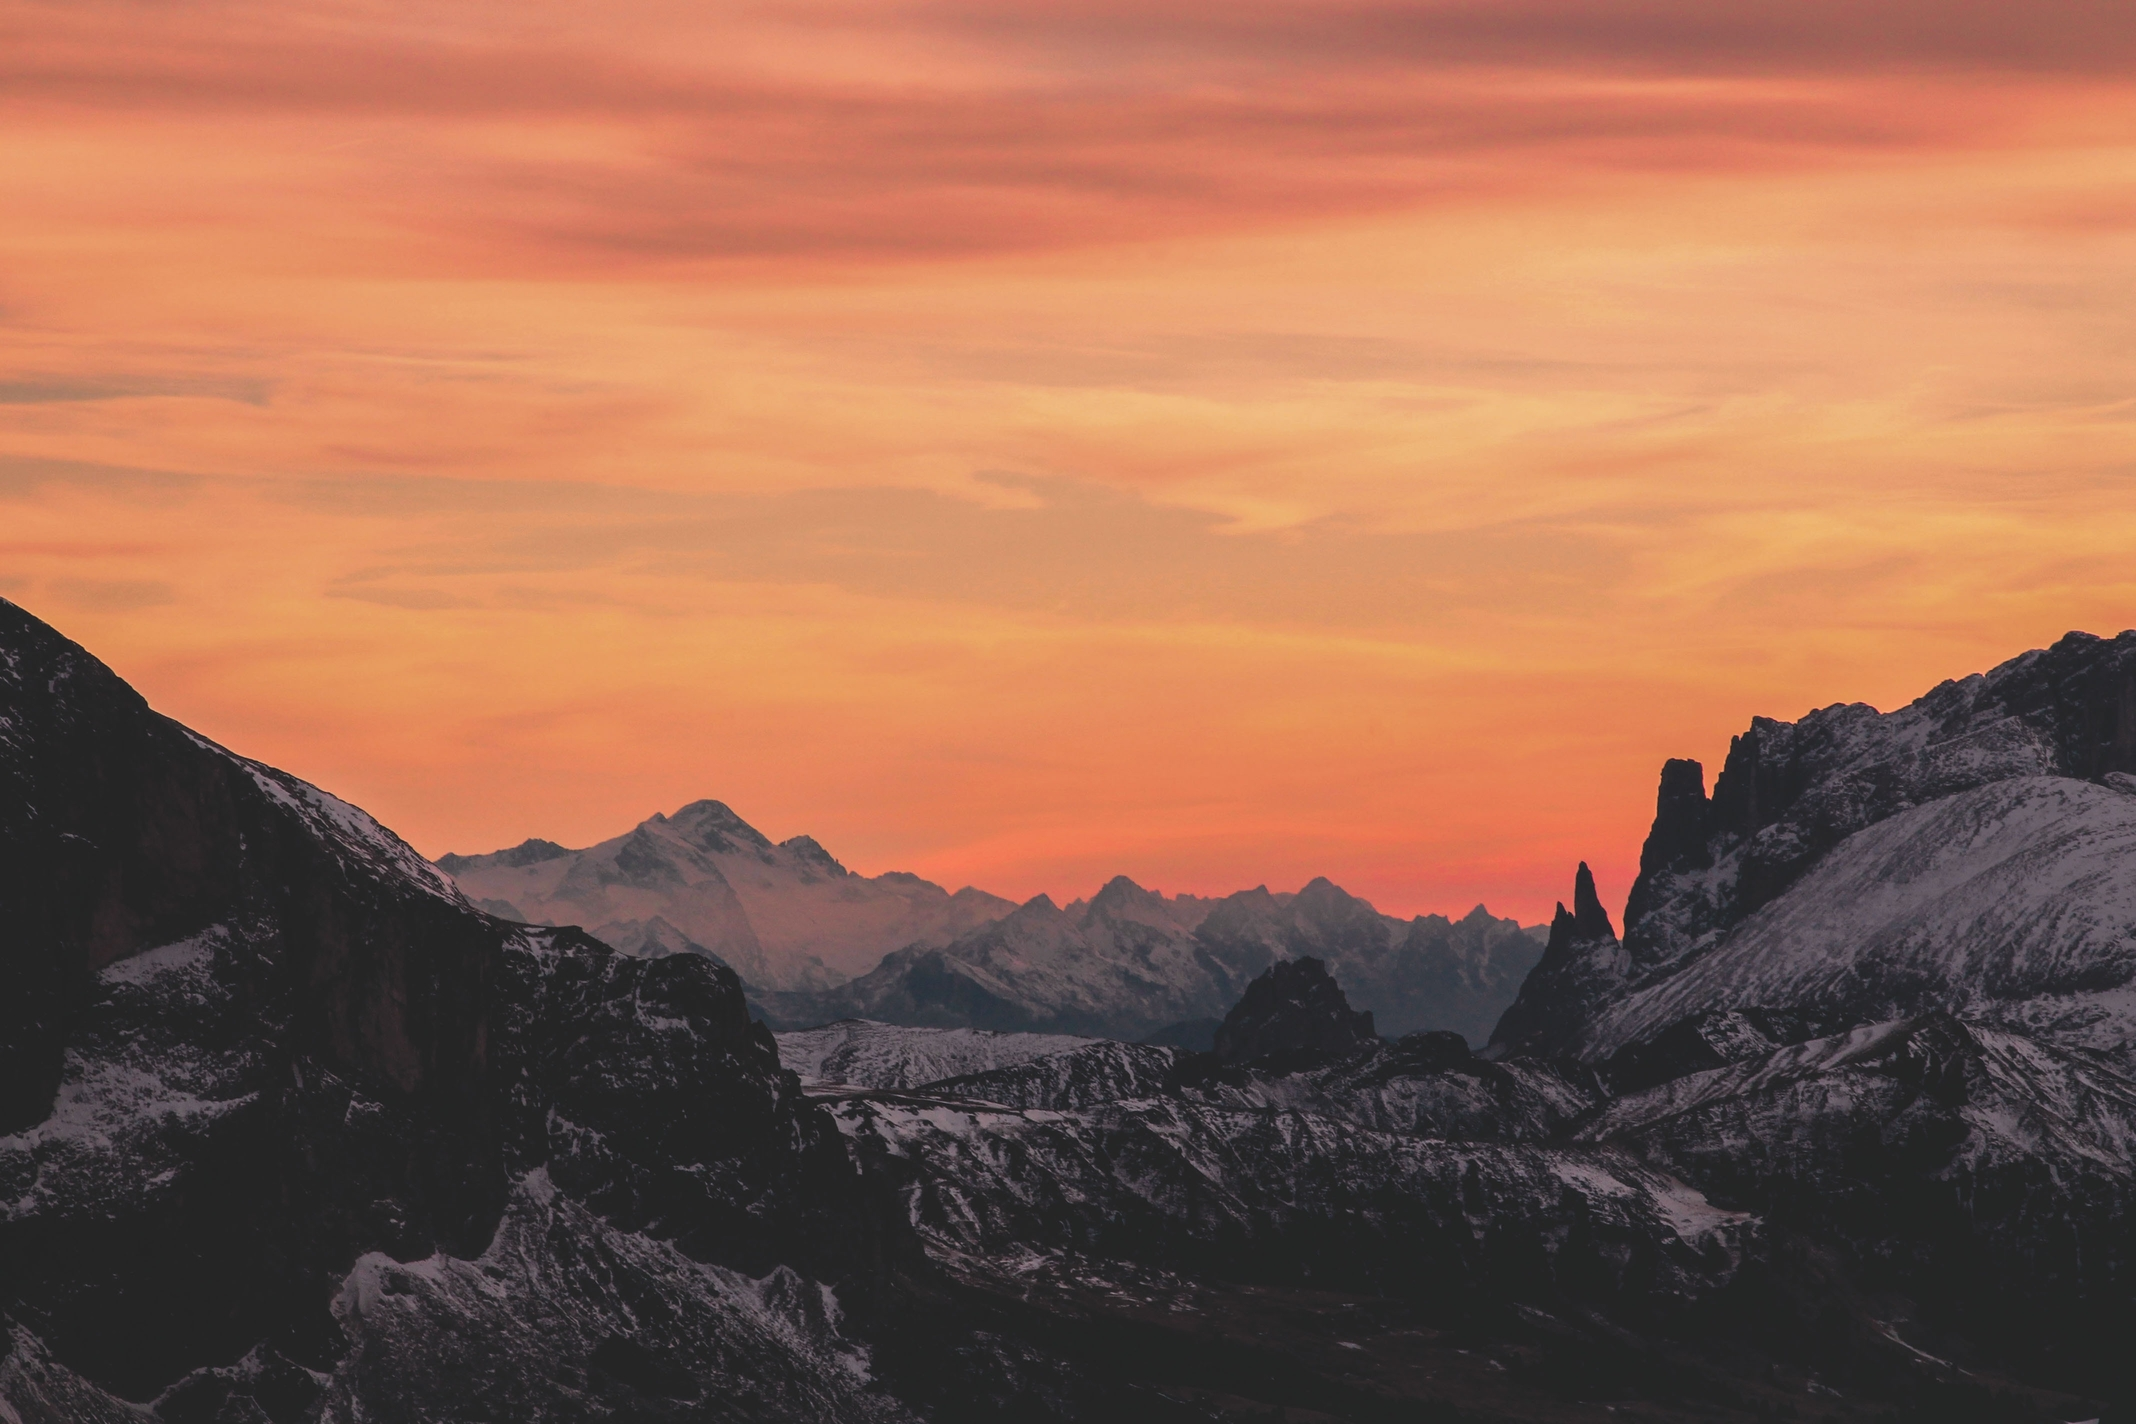
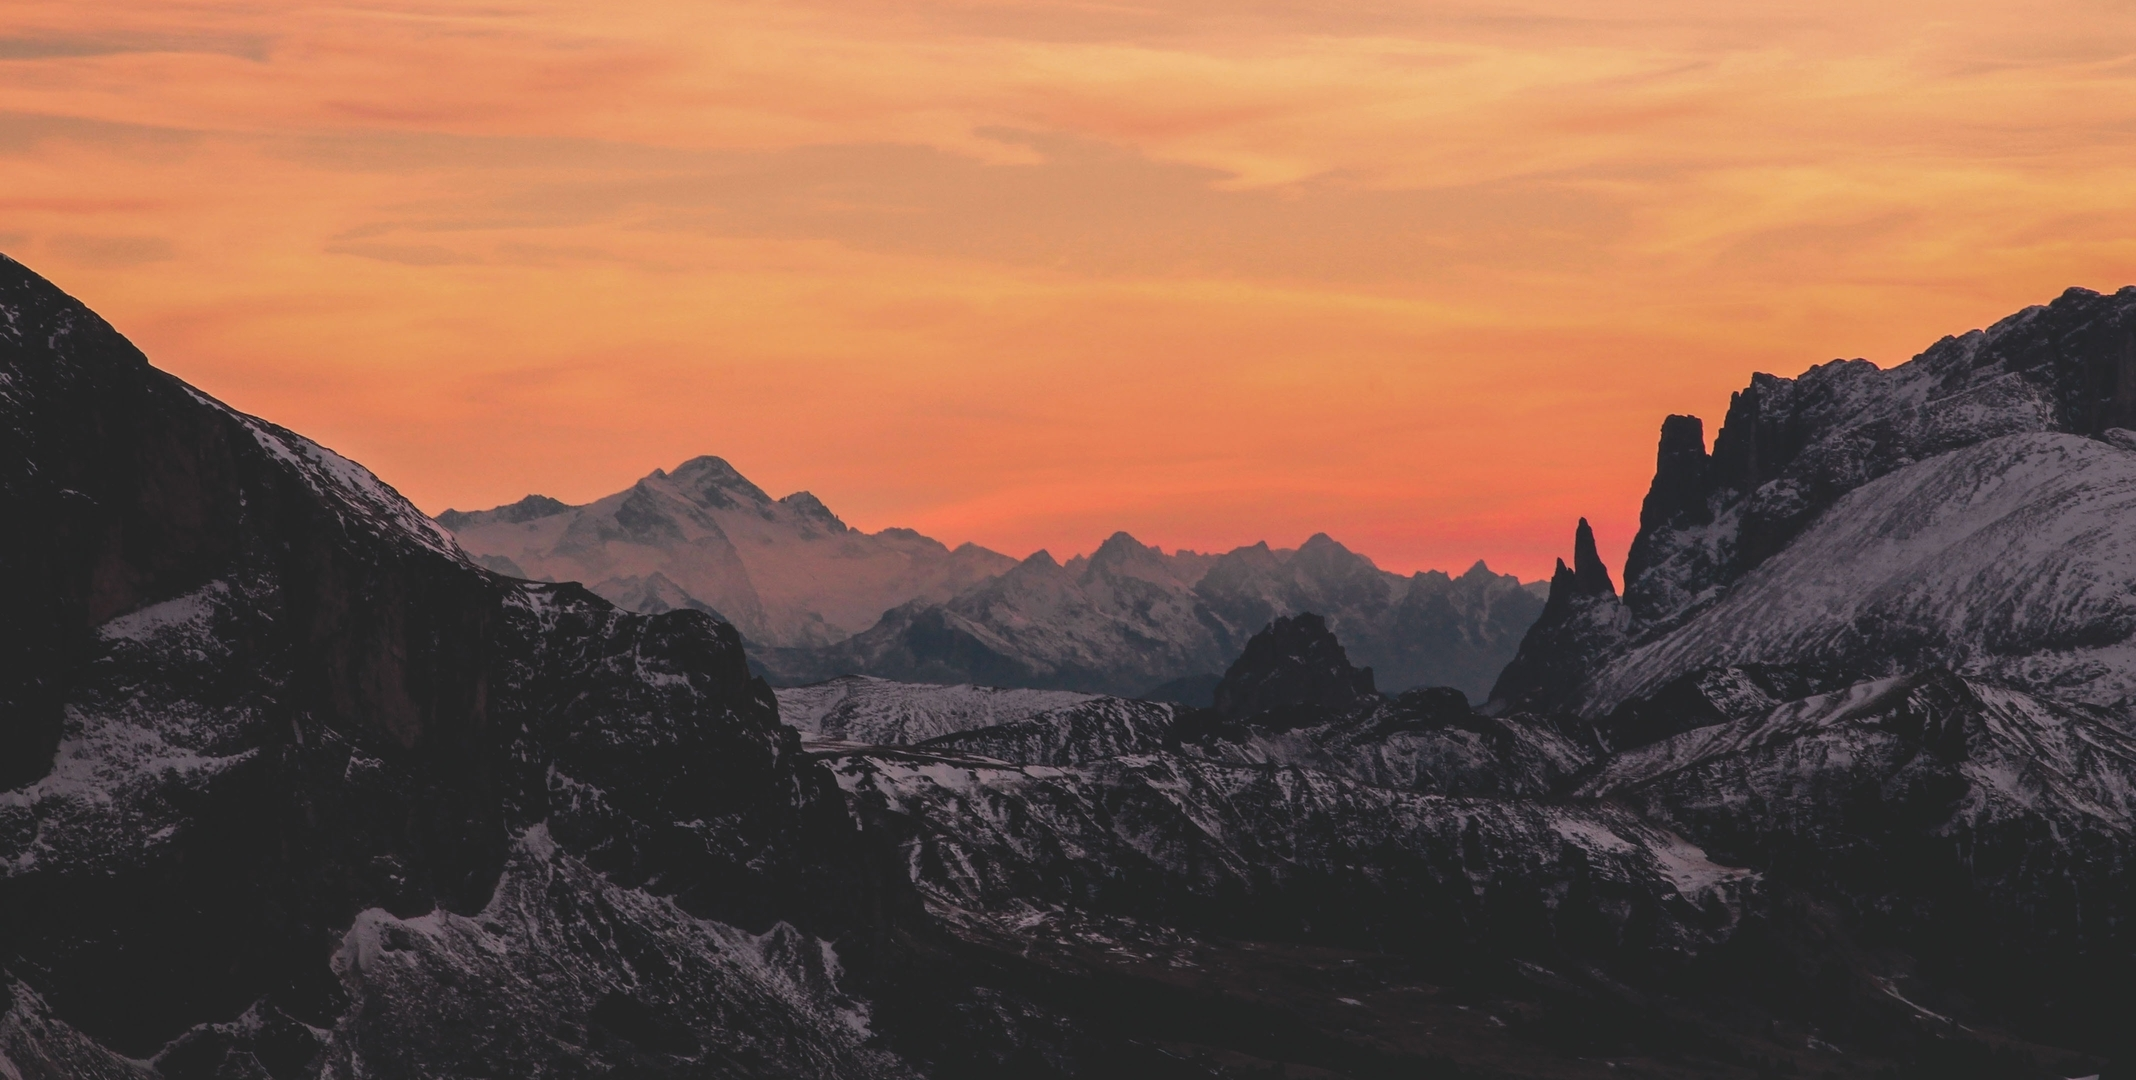
responsive design and skills tab

diff --git a/css/style.css b/css/style.css
@@ -2,9 +2,6 @@ body {
     margin: 0;
     background: #f4f4f4;
     font-family: Arial, Helvetica, sans-serif;
-    background: url('../assets/background-img.jpg');
-    background-repeat: no-repeat;
-    background-size: 100%;
 }
 
 a {
@@ -27,27 +24,41 @@ a {
 }
 
 #greetings {
-    position: absolute;
+    /* position: absolute;
     top: 50%;
     left: 50%;
-    transform: translate(-50%, -50%);
-    font-size: 1.71em;
-    line-height: 0.5em;
-    text-align: center;
+     */
+    vertical-align: middle;
+    background: url('../assets/background-img.jpg');
+    background-repeat: no-repeat;
+    background-position: bottom top;
+    max-width: 100%;
+    /* background-size: 100%; */
+    height: 870px;
     width: 100%;
     box-sizing: content-box;
+    min-height: 500px;
 }
 
-#grettings h2 {
-    padding-top: 100px;
+#greetings .text {
+    font-size: 1.60em;
+    line-height: 0.9999em;
+    text-align: center;
+    font: bold;
+    color: #000;
+    position: absolute;
+    top: 45%;
+    width: 100%;
+    left: 50%;
+    transform: translate(-50%, -50%);
 }
 
 #footer {
     background: #333;
     width: 100%;
-    position: fixed;
     bottom: 0;
-    height: 3em;
+    height: 3.3em;
+    font-size: 18px;
     text-decoration: inherit;
     color: #fff;
 }
@@ -55,6 +66,7 @@ a {
 #navbar {
     background: #333;
     color: #fff;
+    margin: auto;
 }
 
 #navbar ul {
@@ -65,4 +77,18 @@ a {
     display: inline;
     font-size: 20px;
     padding-right: 25px;
+}
+
+#skills {
+    background: #3e4444;
+    text-align: center;
+    height: 200px;
+    min-height: 150px;
+}
+
+#skills img {
+    width: 86px;
+    height: 86px;
+    padding-left: 20px;
+    padding-right: 20px;
 }

diff --git a/index.html b/index.html
@@ -22,18 +22,33 @@
     </nav>
     <section id="greetings">
         <div class="container">
-            <h2>Hi, I'm Renato.</h2>
-            <h3>I'm a Fullstack Developer.</h3>
+            <div class="text">
+                <h2>Hi, I'm Renato.</h2>
+                <h3>I'm a Fullstack Developer.</h3>
+            </div>
         </div>
     </section>
     <section id="skills">
-        <!-- TODO -->
+        <div class="container">
+            <h1>Skills</h1>
+            <img src="./assets/html5.png" alt="">
+            <img src="./assets/css3.svg" alt="">
+            <img src="./assets/python.png" alt="">
+            <img src="./assets/javascript.png" alt="">
+            <img src="./assets/mongodb.png" alt="">
+            <img src="./assets/nodejs.png" alt="">
+            <img src="./assets/reactjs.png" alt="">
+        </div>
     </section>
     <section id="projects">
-        <!-- TODO -->
+        <div class="container">
+
+        </div>
     </section>
     <section id="about">
-        <!-- TODO -->
+        <div class="container">
+
+        </div>
     </section>
     <footer id="footer">
         <div class="container">
